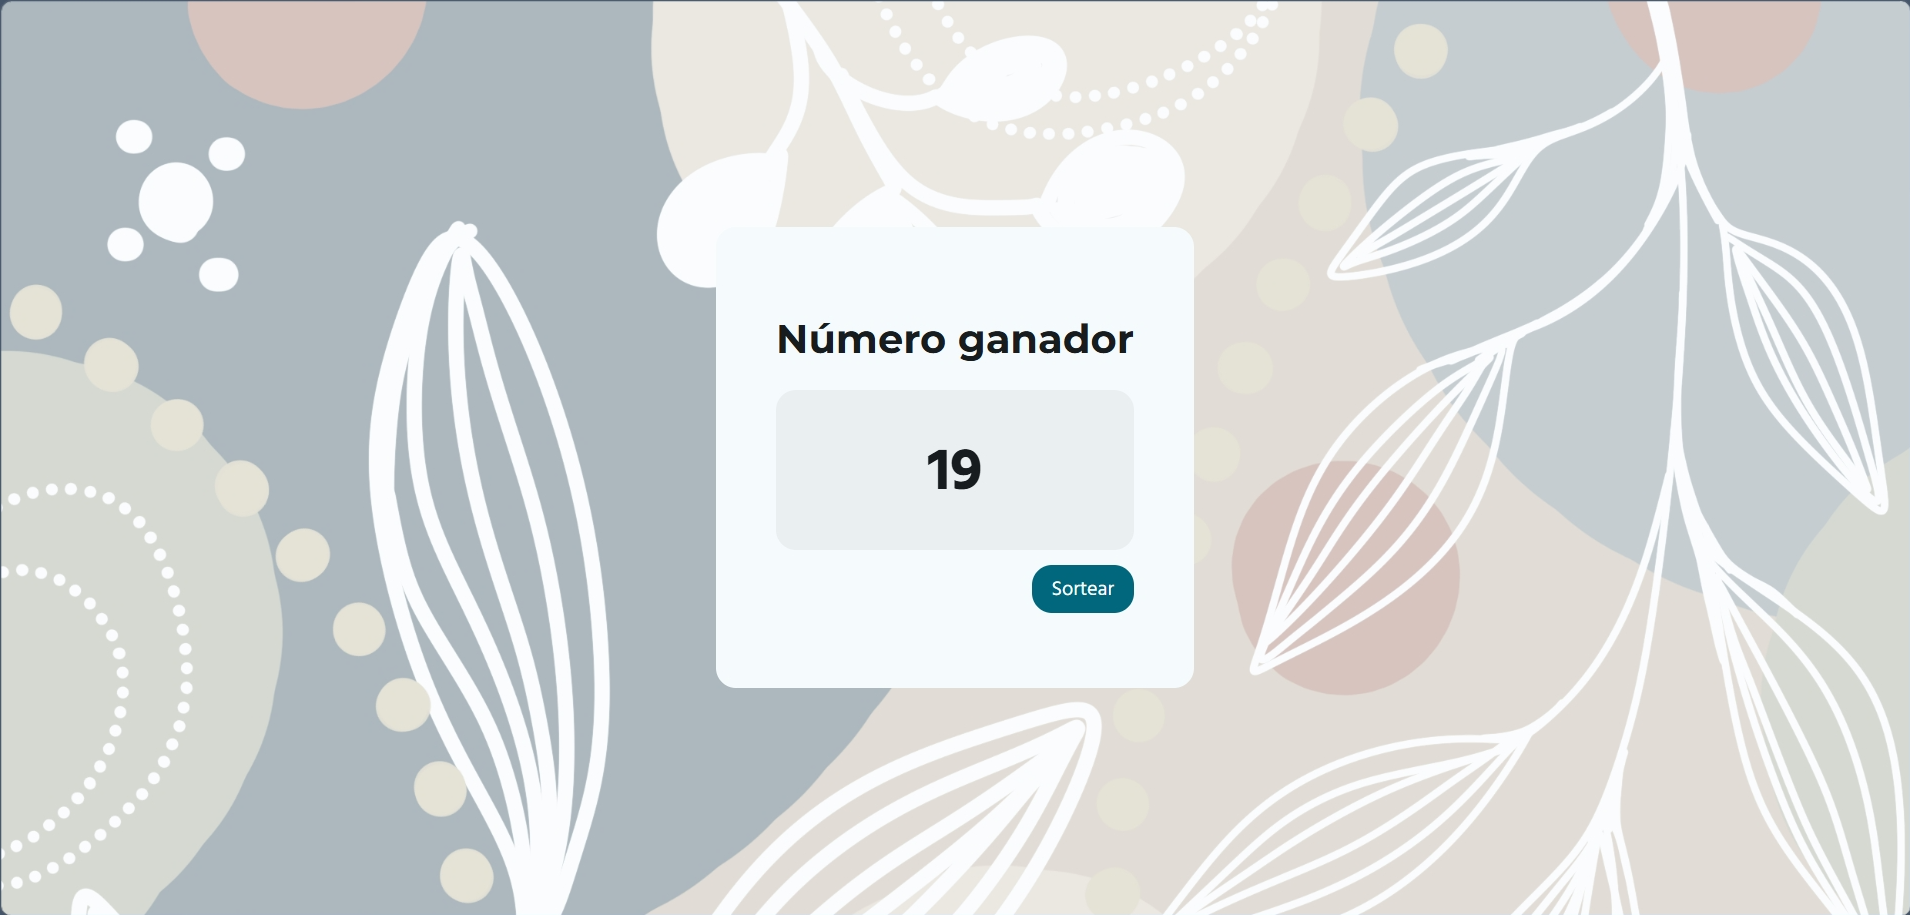
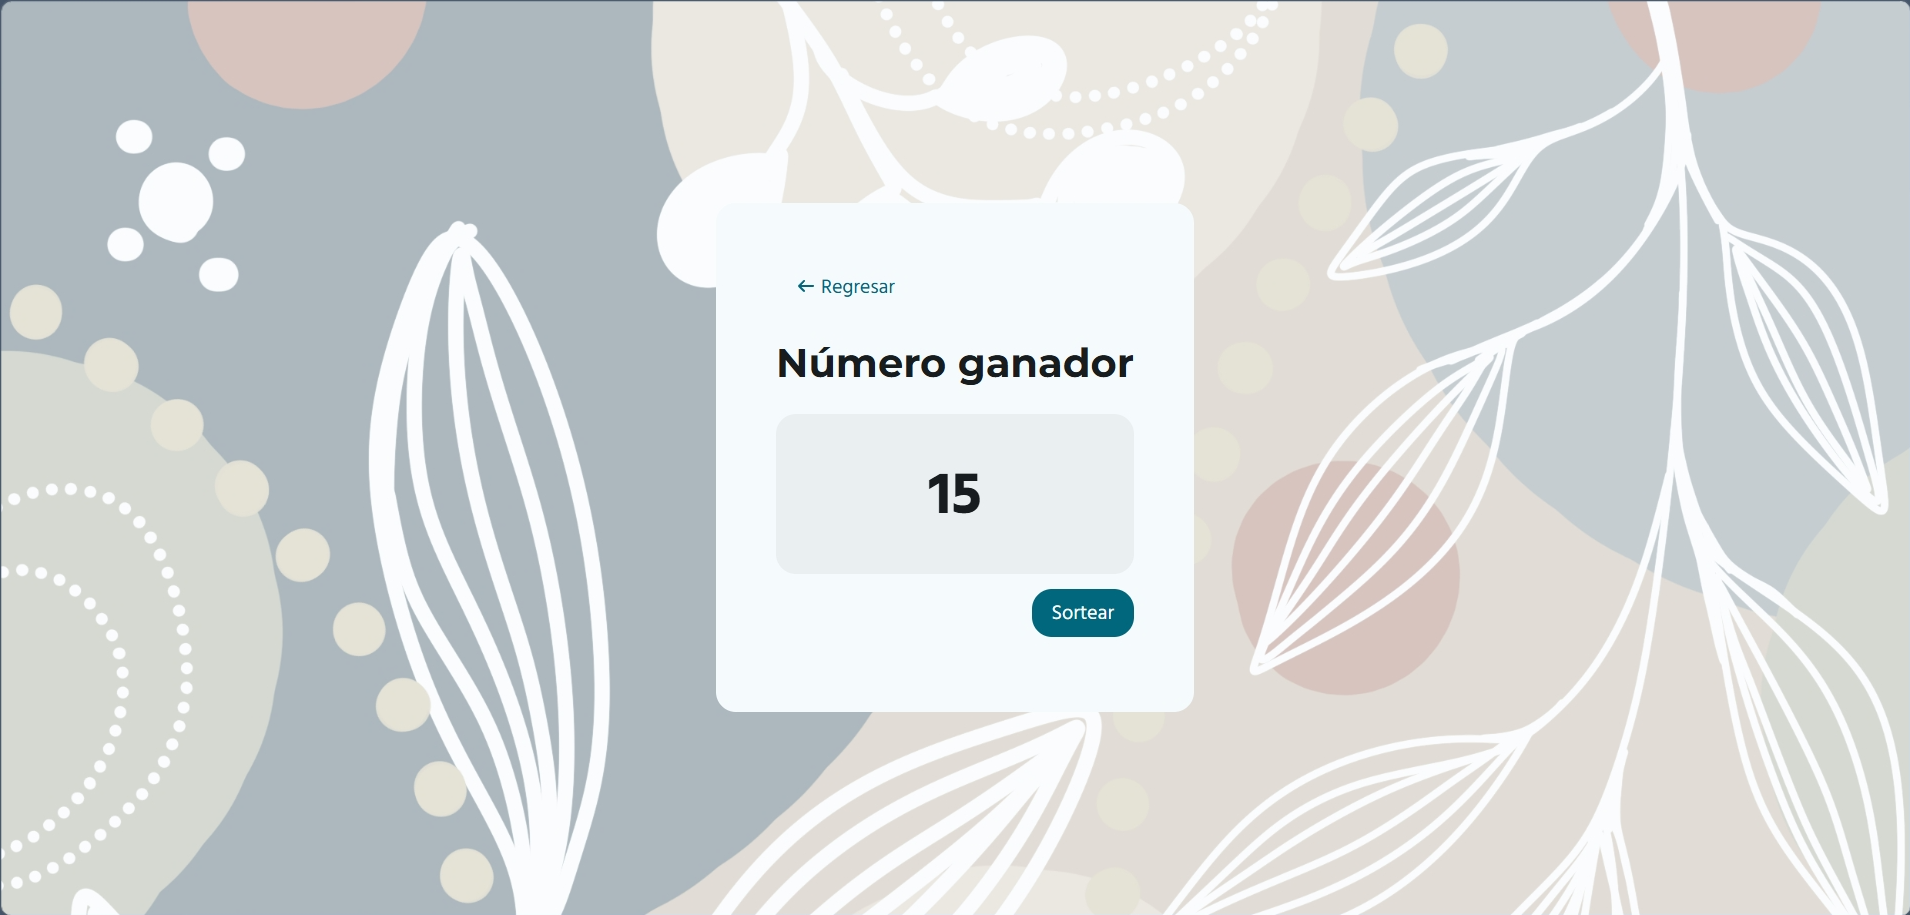
Added return button

diff --git a/draw.html b/draw.html
@@ -17,6 +17,13 @@
     <div class="image">
         <div class="background">
             <div class="container">
+                <button id="return">
+                    <svg class="icon" xmlns="http://www.w3.org/2000/svg"
+                        viewBox="0 0 640 640"><!--!Font Awesome Free v7.2.0 by @fontawesome - https://fontawesome.com License - https://fontawesome.com/license/free Copyright 2026 Fonticons, Inc.-->
+                        <path
+                            d="M73.4 297.4C60.9 309.9 60.9 330.2 73.4 342.7L233.4 502.7C245.9 515.2 266.2 515.2 278.7 502.7C291.2 490.2 291.2 469.9 278.7 457.4L173.3 352L544 352C561.7 352 576 337.7 576 320C576 302.3 561.7 288 544 288L173.3 288L278.7 182.6C291.2 170.1 291.2 149.8 278.7 137.3C266.2 124.8 245.9 124.8 233.4 137.3L73.4 297.3z" />
+                    </svg>
+                    Regresar</button>
                 <h1>Número ganador</h1>
                 <div class="number">
                     <strong id="winner"></strong>

diff --git a/js/draw.js b/js/draw.js
@@ -14,7 +14,11 @@ function generateWinningNumber() {
 // Gets stored tickets array
 let tickets = JSON.parse(sessionStorage.getItem("tickets"));
 
-// Adds event listener
+// Adds event listeners
+document
+  .getElementById("return")
+  .addEventListener("click", () => window.location.assign("../select.html"));
+
 document
   .getElementById("draw")
   .addEventListener("click", generateWinningNumber);

diff --git a/README.md b/README.md
@@ -14,7 +14,7 @@ Use the "Reiniciar" button to reset your selection and the "Regresar" button to 
 
 ![Screenshot of the configuration page](images/screenshots/raffle_02.png)
 
-You can then click the "Sortear" button to generate a new winning number until there are no more numbers.
+You can then click the "Sortear" button to generate a new winning number until there are no more numbers. Use the "Regresar" button to go back one page.
 
 ![Screenshot of the draw page](images/screenshots/raffle_03.png)
 